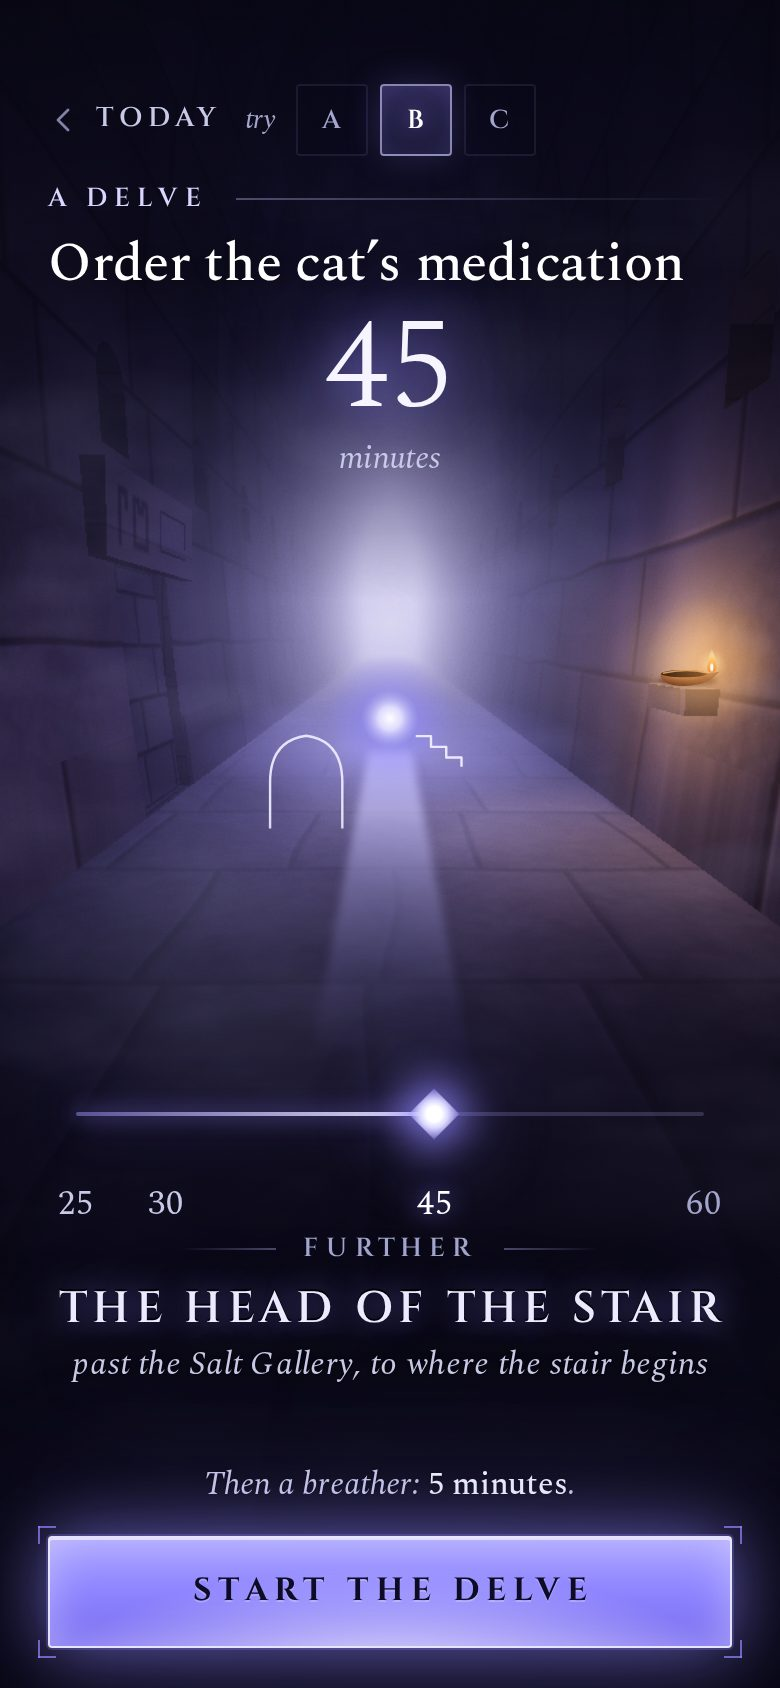
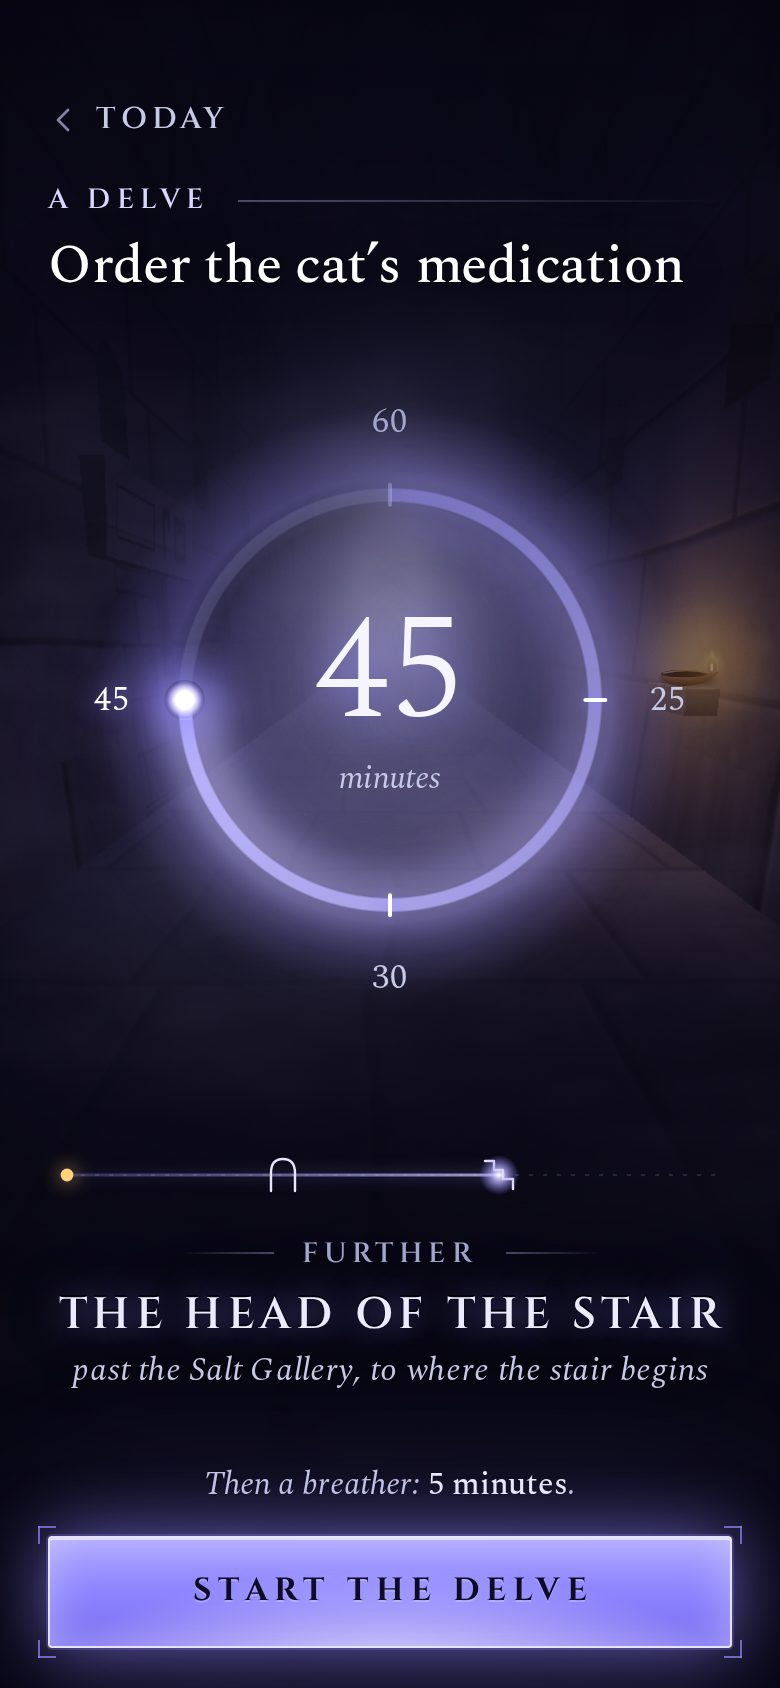
design: delve length is the dial (Dan's pick); variants kept for comparison
Claude-Session: https://claude.ai/code/session_017rYuCCJkEfgfZgeLg23VAh

diff --git a/docs/design/directions/d-combined/morning.html b/docs/design/directions/d-combined/morning.html
@@ -155,7 +155,7 @@ document.querySelectorAll('.seg > button').forEach(function(b){
   function paint(){
     var v = /done/.test(location.hash) ? 'done' : (/later/.test(location.hash) ? 'later' : 'early');
     if (drawn === v) return; drawn = v;
-    var h = Hall.draw(document.getElementById('hall'), { cam: { x: .2, y: 1.6, z: .5, f: .62, cx: .5, cy: .5 }, gold: GOLD[v] });
+    var h = Hall.draw(document.getElementById('hall'), { cam: { x: .2, y: 1.6, z: 1.5, f: .62, cx: .5, cy: .47 }, gold: GOLD[v] });
     /* fine, faint brackets on the lintel ("Ahead") */
     var pts = [h.onBeam(0, 0), h.onBeam(0, .85), h.onBeam(2.6, 0), h.onBeam(2.6, .85)].filter(Boolean);
     var x0 = Math.min.apply(0, pts.map(function(p){ return p[0]; })) - 7, x1 = Math.max.apply(0, pts.map(function(p){ return p[0]; })) + 7;

diff --git a/docs/design/directions/d-combined/delve-set.html b/docs/design/directions/d-combined/delve-set.html
@@ -244,7 +244,7 @@ body { --scrim-top-h: 300px; --scrim-bottom-h: 52%; }
     else x = xs[2] + (xs[3] - xs[2]) * (v - 45) / 15;
     R.lit.setAttribute('d', 'M' + xs[0] + ' ' + R.y + ' H' + x.toFixed(1));
     R.spark.setAttribute('cx', x.toFixed(1));
-    R.dim.setAttribute('opacity', clamp((v - 27) / 10, 0, 1).toFixed(2));
+    R.dim.setAttribute('opacity', (.6 + .4 * clamp((v - 27) / 10, 0, 1)).toFixed(2));   /* the whole bar always shows, so it reads centred; only the places wait */
     R.g45.setAttribute('opacity', clamp((v - 33) / 10, 0, 1).toFixed(2));
     R.g60.setAttribute('opacity', clamp((v - 48) / 12, 0, 1).toFixed(2));
   }

diff --git a/docs/design/directions/d-combined/hall.js b/docs/design/directions/d-combined/hall.js
@@ -473,7 +473,7 @@
           R = .008 + .5 * glow; G = .008 + .46 * glow; Bc = .03 + 1.0 * glow;
         } else {
           alb[0] = albR; alb[1] = albG; alb[2] = albB;
-          lightAt(X, Y, Z, nx, ny, nz, alb, col, (kind === 6 || kind === 7 || kind === 9) ? 1 : null);
+          lightAt(X, Y, Z, nx, ny, nz, alb, col, (kind === 6 || kind === 7 || kind === 9 || (kind === 5 && bxk.kind === 'ledge')) ? 1 : null);
           R = col[0] * ao; G = col[1] * ao; Bc = col[2] * ao;
           if (kind === 2 || kind === 4) {
             /* a worn sheen on the floor toward the far light */
